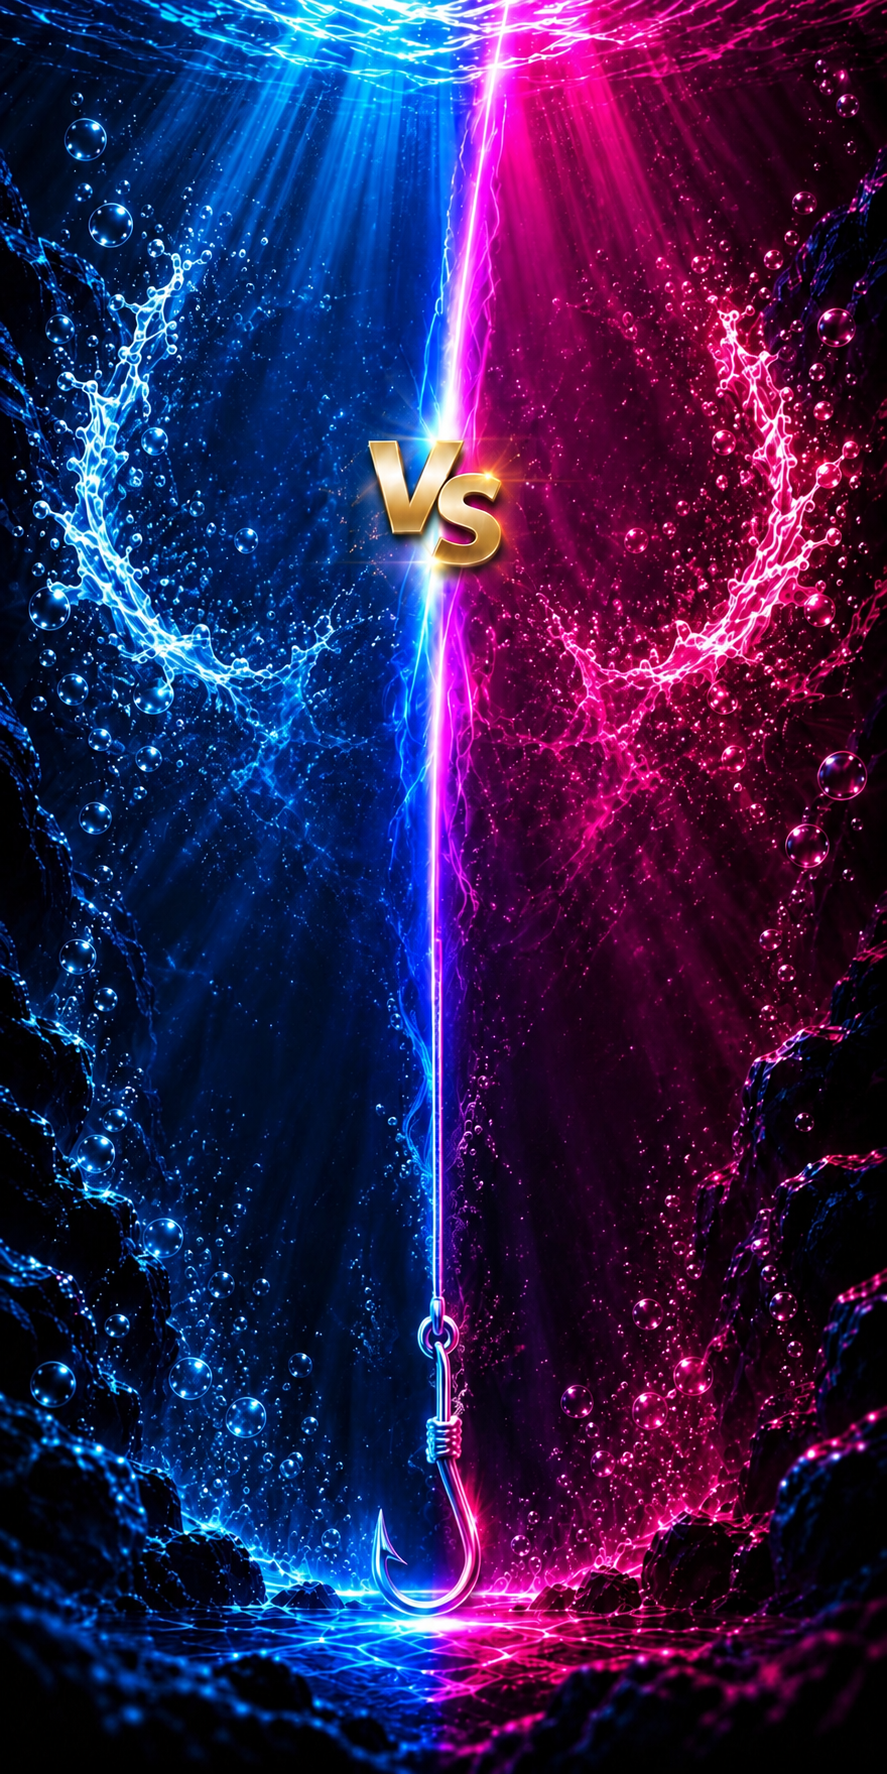
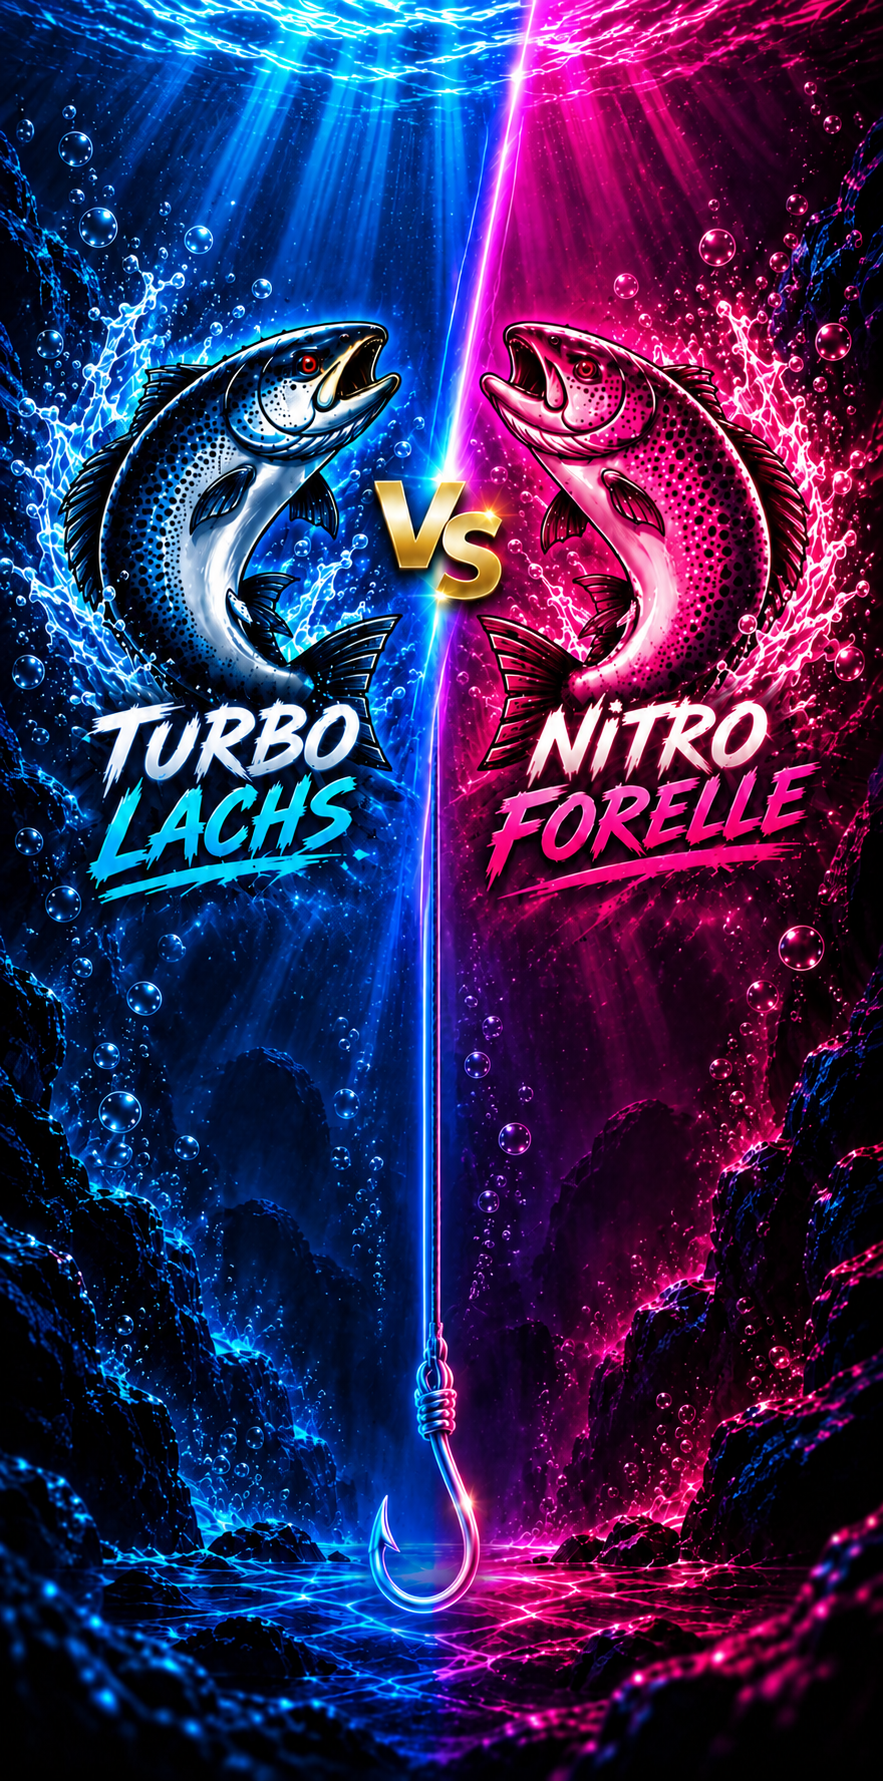
main menu fish assets delete

diff --git a/index.html b/index.html
@@ -10,12 +10,12 @@
     <meta name="apple-mobile-web-app-capable" content="yes">
     <meta name="apple-mobile-web-app-status-bar-style" content="black-translucent">
     <meta name="apple-mobile-web-app-title" content="Fischteich">
-    <meta name="fischteich-build" content="20260911.14">
+    <meta name="fischteich-build" content="20260911.15">
     <title>Fischteich</title>
     <link rel="manifest" href="./manifest.webmanifest">
     <link rel="icon" type="image/png" sizes="192x192" href="./assets/icon-192.png">
     <link rel="apple-touch-icon" sizes="180x180" href="./assets/apple-touch-icon.png">
-    <link rel="stylesheet" href="./style.css?v=166">
+    <link rel="stylesheet" href="./style.css?v=167">
     <!-- Official @supabase/supabase-js v2.112.4 UMD browser build. -->
     <script src="./vendor/supabase.js?v=2.112.4" defer></script>
     <script src="./supabase-client.js?v=2" defer></script>
@@ -45,17 +45,13 @@
       <section class="screen menu-screen is-active" id="menu-screen" aria-label="Hauptmenü">
         <img
           class="menu-background"
-          src="./assets/menu-background.png?v=6"
+          src="./assets/menu-background.png?v=7"
           alt=""
           width="853"
           height="1844"
           draggable="false"
           aria-hidden="true"
         >
-        <div class="main-menu-fish-composition" aria-hidden="true">
-          <img class="main-menu-fish main-menu-fish--turbo" src="./assets/main-turbo-lachs.png?v=1" alt="" width="1218" height="1292" draggable="false">
-          <img class="main-menu-fish main-menu-fish--nitro" src="./assets/main-nitro-forelle.png?v=1" alt="" width="1122" height="1402" draggable="false">
-        </div>
         <button class="buffalo-menu-button" id="open-buffalo-timer" type="button" aria-label="Buffalo Timer öffnen">
           <img src="./assets/button-buffalo-timer.png?v=1" alt="" width="2172" height="724" draggable="false">
         </button>

diff --git a/style.css b/style.css
@@ -126,40 +126,6 @@ button:focus-visible {
   -webkit-user-drag: none;
 }
 
-.main-menu-fish-composition {
-  position: absolute;
-  z-index: 1;
-  inset: 0;
-  pointer-events: none;
-}
-
-.main-menu-fish {
-  position: absolute;
-  top: 28.41dvh;
-  height: auto;
-  pointer-events: none;
-  transform: translate(-50%, -50%);
-  user-select: none;
-  -webkit-user-drag: none;
-}
-
-.main-menu-fish--turbo {
-  left: calc(50% - clamp(150px, 39vw, 168px) + clamp(54px, 15vw, 66px));
-  width: clamp(173px, 48vw, 211px);
-}
-
-.main-menu-fish--nitro {
-  left: calc(50% + clamp(40px, 10.3vw, 46px) + clamp(47px, 13.5vw, 58px));
-  width: clamp(150px, 43.2vw, 186px);
-}
-
-/* In short viewports cover crops vertically around the VS-centered composition. */
-@media (min-aspect-ratio: 6 / 11) {
-  .main-menu-fish {
-    top: calc(50dvh - 43.18vw);
-  }
-}
-
 .teams-menu-screen,
 .trottl-menu-screen,
 .trottl-dice-screen,
